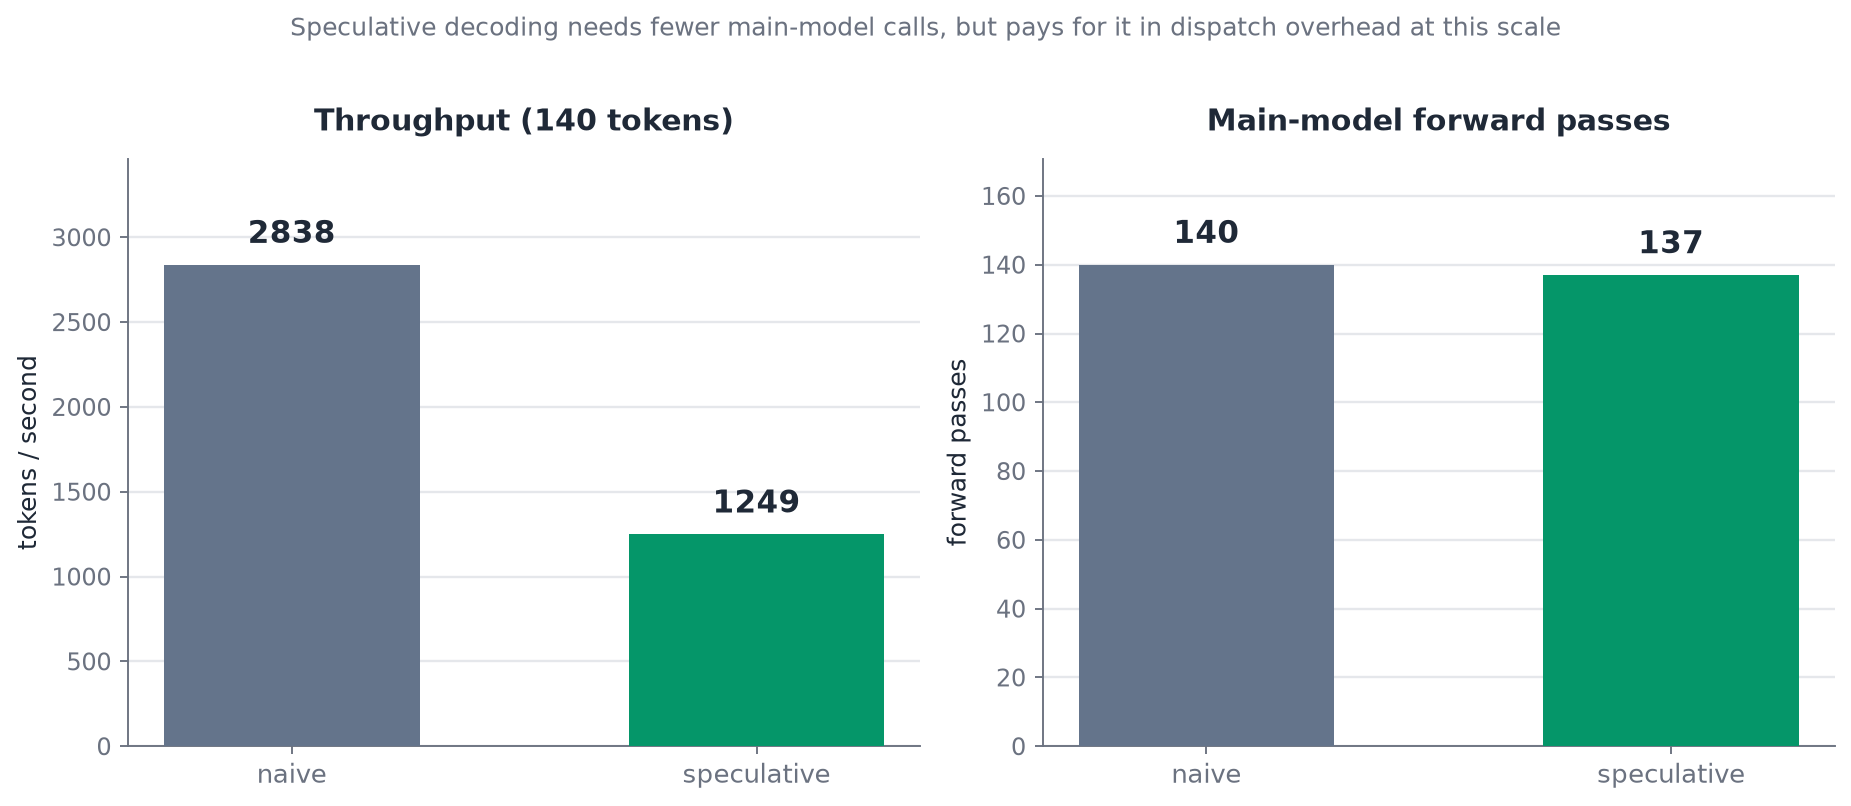
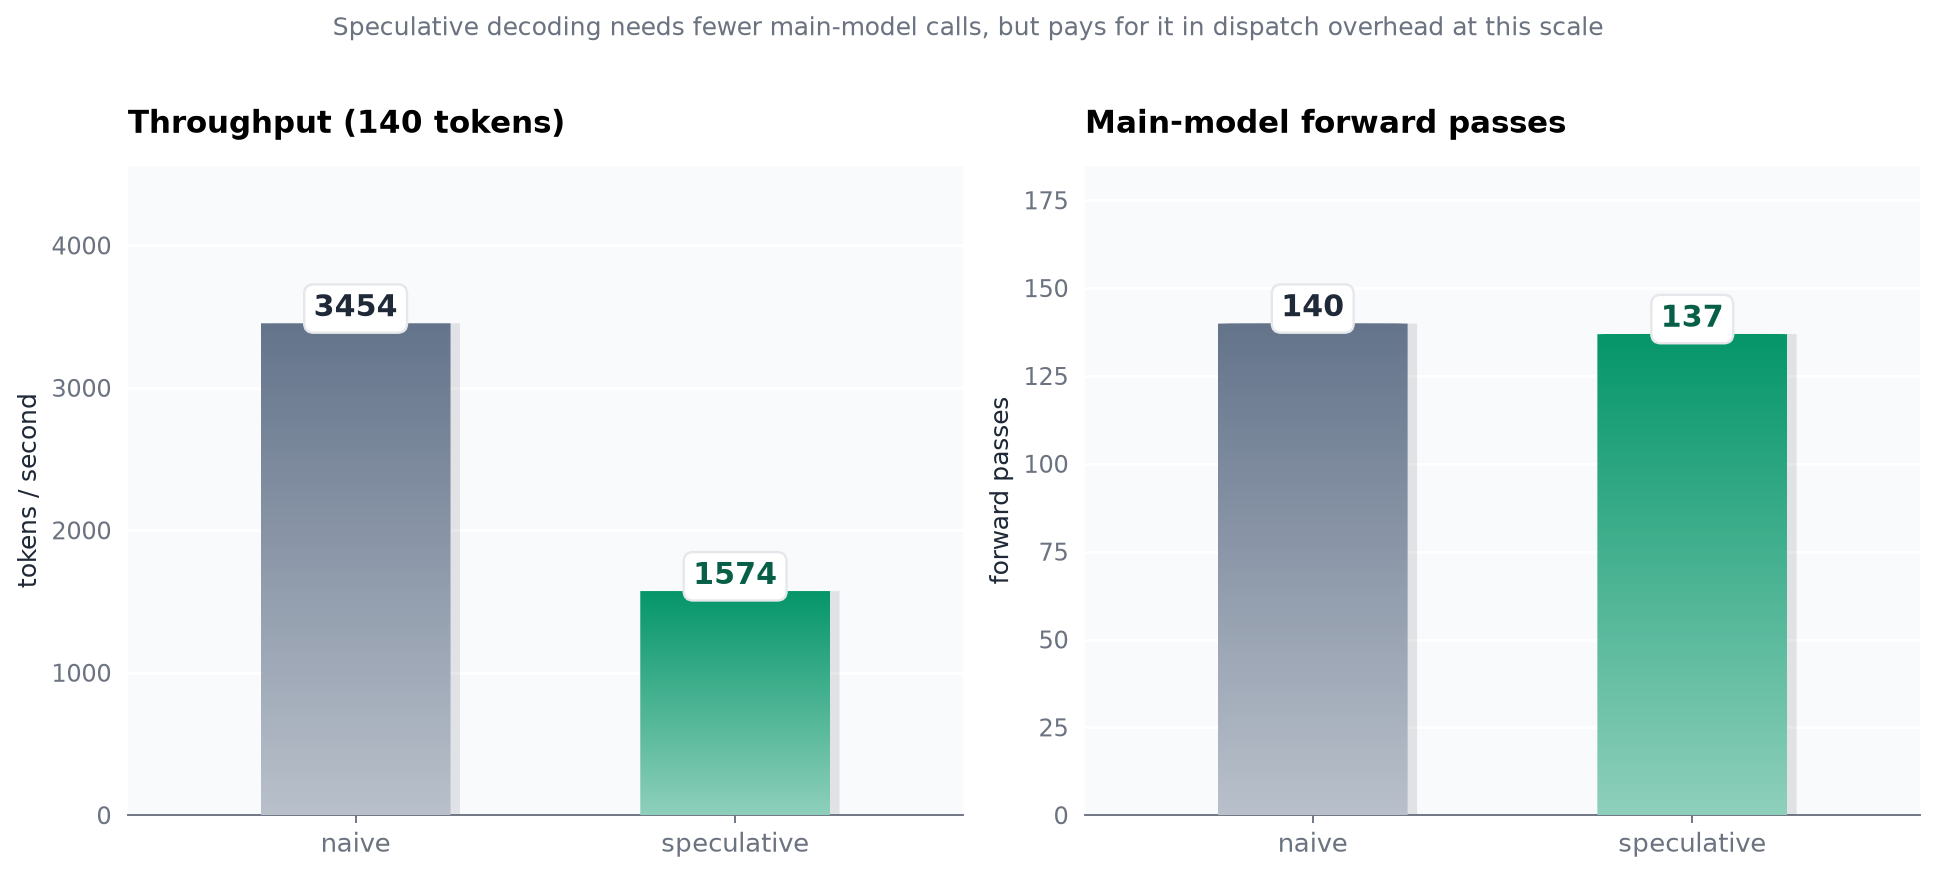
style: rounded gradient bars with shadow and value chips for the decoding-comparison chart

diff --git a/src/specdec/viz.py b/src/specdec/viz.py
@@ -20,17 +20,70 @@ _ACCENT = "#b45309"
 _GRID = "#e5e7eb"
 _TEXT = "#1f2937"
 _MUTED = "#6b7280"
+_BAND = "#f8fafc"
+_SHADOW = "#0f172a"
 
 
 def _style_axis(ax) -> None:
     ax.spines["top"].set_visible(False)
     ax.spines["right"].set_visible(False)
-    ax.spines["left"].set_color(_MUTED)
+    ax.spines["left"].set_visible(False)
     ax.spines["bottom"].set_color(_MUTED)
-    ax.tick_params(colors=_MUTED)
+    ax.tick_params(colors=_MUTED, left=False)
     ax.title.set_color(_TEXT)
     ax.xaxis.label.set_color(_TEXT)
     ax.yaxis.label.set_color(_TEXT)
+
+
+def _lighten(hex_color: str, amount: float) -> tuple:
+    from matplotlib.colors import to_rgb
+
+    r, g, b = to_rgb(hex_color)
+    return (r + (1 - r) * amount, g + (1 - g) * amount, b + (1 - b) * amount)
+
+
+def _gradient_bar(ax, x_center: float, height: float, width: float, color: str, *, zorder: int = 3) -> None:
+    """A bar with a rounded top, a soft vertical gradient, and a faint drop
+    shadow, instead of a flat-filled rectangle. The rounded bottom corners a
+    plain FancyBboxPatch would draw are pushed below ``y=0`` and cropped away
+    by the axes' own clip box, so only the top stays visibly rounded."""
+    import numpy as np
+    from matplotlib.colors import LinearSegmentedColormap
+    from matplotlib.patches import FancyBboxPatch
+
+    if height <= 0:
+        return
+    radius = min(width, height) * 0.22
+
+    shadow = FancyBboxPatch(
+        (x_center - width / 2 + width * 0.05, -radius), width, height + radius,
+        boxstyle=f"round,pad=0,rounding_size={radius}",
+        linewidth=0, facecolor=_SHADOW, alpha=0.10, zorder=zorder - 1, transform=ax.transData,
+    )
+    ax.add_patch(shadow)
+
+    outline = FancyBboxPatch(
+        (x_center - width / 2, -radius), width, height + radius,
+        boxstyle=f"round,pad=0,rounding_size={radius}",
+        linewidth=0, facecolor="none", zorder=zorder, transform=ax.transData,
+    )
+    ax.add_patch(outline)
+
+    cmap = LinearSegmentedColormap.from_list("bar", [_lighten(color, 0.55), color])
+    gradient = np.linspace(0, 1, 256).reshape(-1, 1)
+    im = ax.imshow(
+        gradient, extent=(x_center - width / 2, x_center + width / 2, -radius, height),
+        origin="lower", aspect="auto", cmap=cmap, zorder=zorder, transform=ax.transData,
+    )
+    im.set_clip_path(outline)
+
+
+def _value_chip(ax, x_center: float, y: float, text: str, *, color: str = _TEXT) -> None:
+    ax.text(
+        x_center, y, text, ha="center", va="bottom", fontsize=12.5, color=color, fontweight="bold",
+        bbox={"boxstyle": "round,pad=0.32", "facecolor": "white", "edgecolor": _GRID, "linewidth": 1},
+        zorder=6,
+    )
 
 
 def plot_decoding_comparison(
@@ -47,28 +100,29 @@ def plot_decoding_comparison(
     visible in a single glance rather than three separate small charts."""
     import matplotlib.pyplot as plt
 
-    fig, (ax1, ax2) = plt.subplots(1, 2, figsize=(11, 4.6))
+    fig, (ax1, ax2) = plt.subplots(1, 2, figsize=(11.5, 5))
     fig.patch.set_facecolor("white")
     labels = ["naive", "speculative"]
     colors = [_NAIVE, _SPEC]
+    bar_width = 0.5
 
     for ax, values, title, ylabel, fmt in (
         (ax1, [naive_tps, spec_tps], f"Throughput ({n_tokens} tokens)", "tokens / second", "{:.0f}"),
         (ax2, [float(naive_calls), float(spec_calls)], "Main-model forward passes", "forward passes", "{:.0f}"),
     ):
-        bars = ax.bar(labels, values, color=colors, width=0.55, zorder=3)
-        for bar, val in zip(bars, values, strict=True):
-            ax.text(
-                bar.get_x() + bar.get_width() / 2, val + max(values) * 0.03, fmt.format(val),
-                ha="center", va="bottom", fontsize=13, fontweight="bold", color=_TEXT,
-            )
+        ax.set_facecolor(_BAND)
+        for i, (val, color) in enumerate(zip(values, colors, strict=True)):
+            _gradient_bar(ax, i, val, bar_width, color)
+            _value_chip(ax, i, val, fmt.format(val), color=_SPEC_DARK if color == _SPEC else _TEXT)
+        ax.set_xticks(range(len(labels)))
+        ax.set_xticklabels(labels, fontsize=11)
+        ax.set_xlim(-0.6, len(labels) - 0.4)
         ax.set_ylabel(ylabel, fontsize=10.5)
-        ax.set_title(title, fontsize=12.5, fontweight="bold", pad=12)
-        ax.set_ylim(0, max(values) * 1.22)
-        ax.grid(axis="y", color=_GRID, linewidth=1, zorder=0)
+        ax.set_title(title, fontsize=13, fontweight="bold", loc="left", pad=14)
+        ax.set_ylim(0, max(values) * 1.32)
+        ax.grid(axis="y", color="white", linewidth=1.4, zorder=0)
         ax.set_axisbelow(True)
         _style_axis(ax)
-        ax.tick_params(axis="x", labelsize=11)
 
     fig.suptitle(
         "Speculative decoding needs fewer main-model calls, but pays for it in dispatch overhead at this scale",
